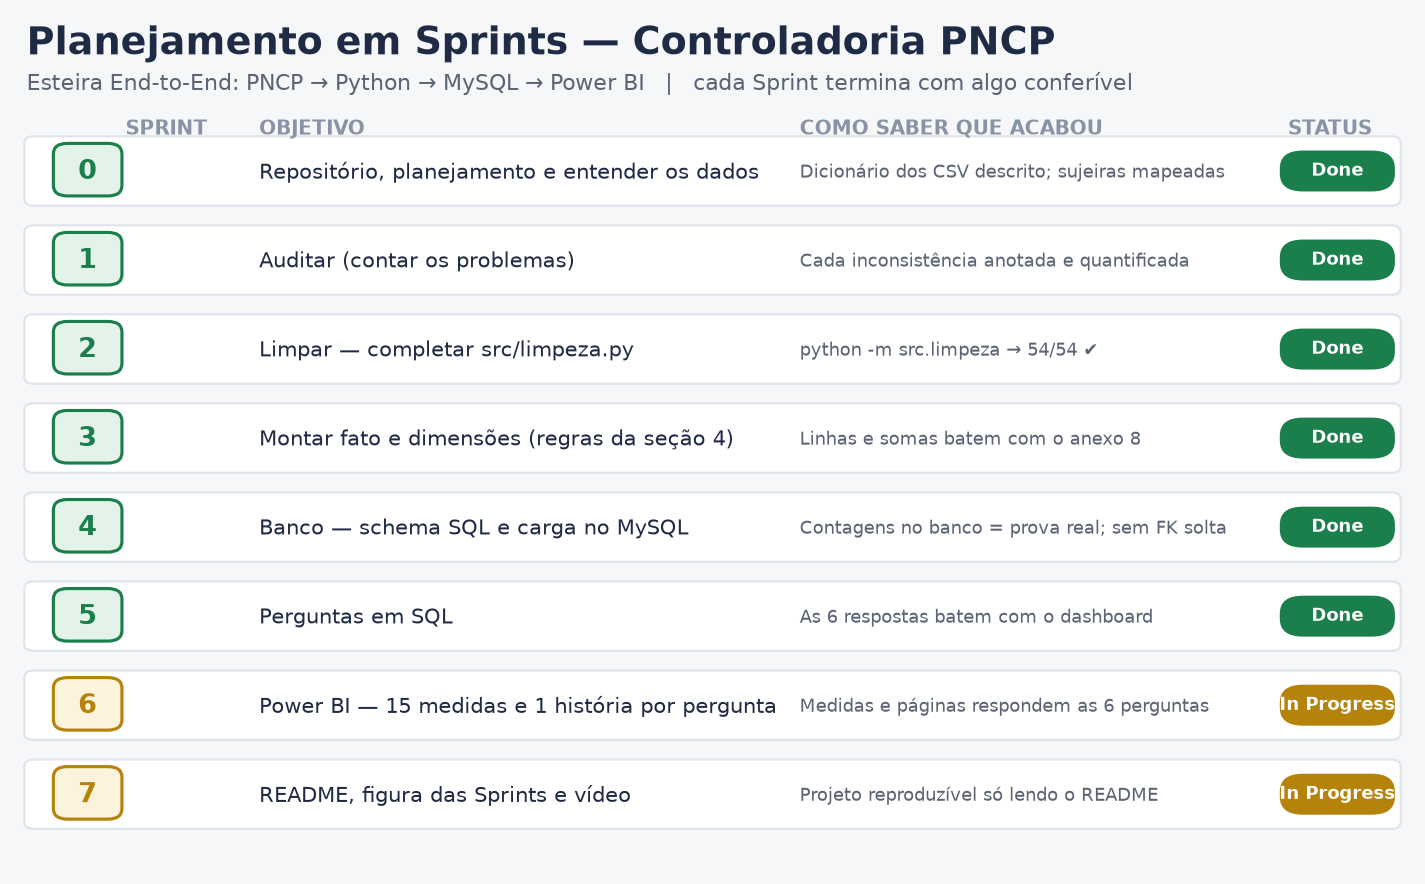
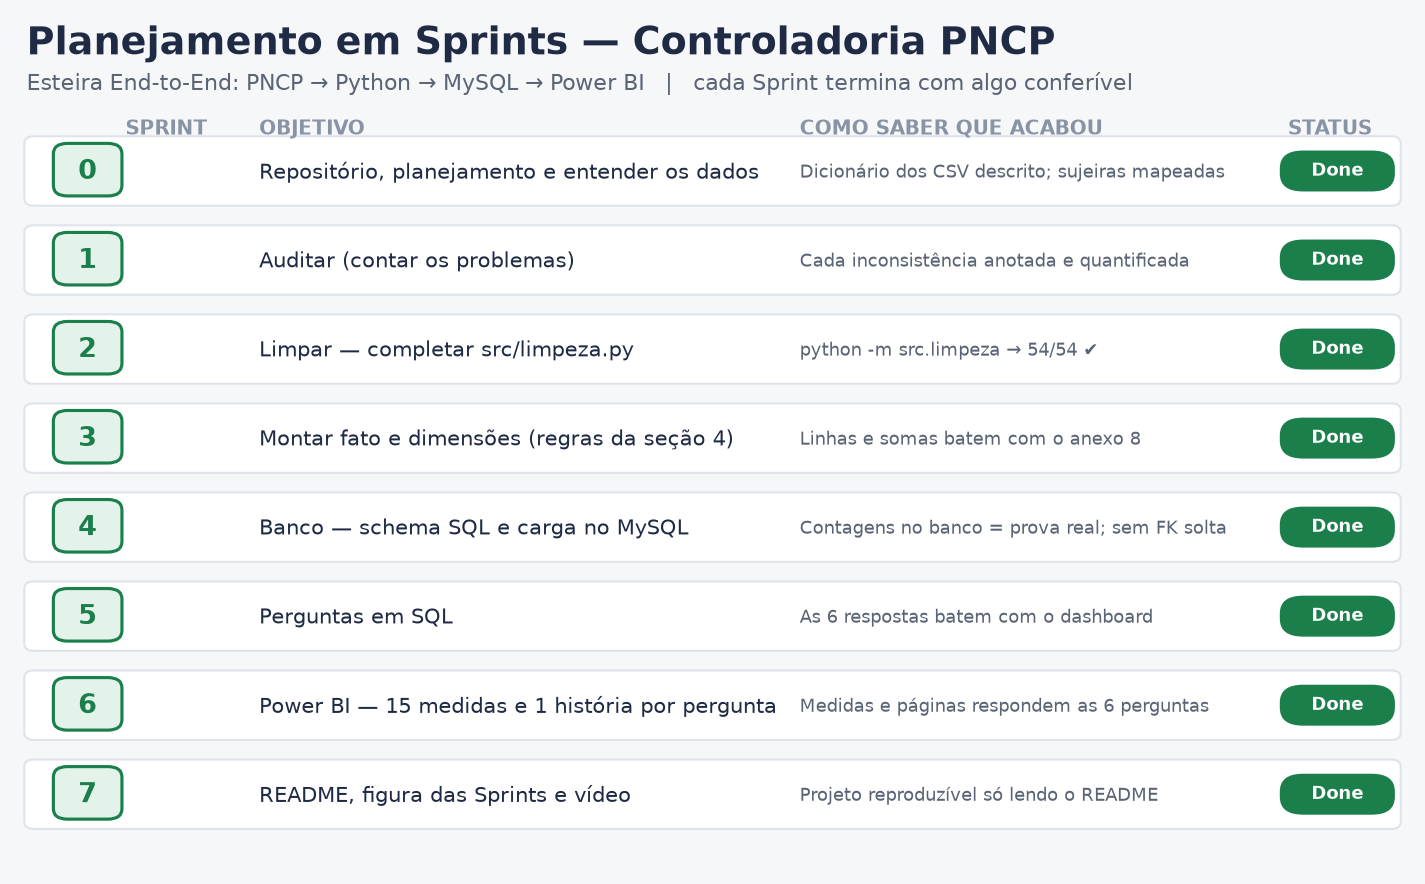
Marca todas as sprints como Done

diff --git a/docs/gerar_sprints.py b/docs/gerar_sprints.py
@@ -30,9 +30,9 @@ SPRINTS = [
     ("5", "Perguntas em SQL",
      "As 6 respostas batem com o dashboard", "Done"),
     ("6", "Power BI — 15 medidas e 1 história por pergunta",
-     "Medidas e páginas respondem as 6 perguntas", "In Progress"),
+     "Medidas e páginas respondem as 6 perguntas", "Done"),
     ("7", "README, figura das Sprints e vídeo",
-     "Projeto reproduzível só lendo o README", "In Progress"),
+     "Projeto reproduzível só lendo o README", "Done"),
 ]
 
 CORES = {

diff --git a/README.md b/README.md
@@ -374,5 +374,6 @@ entrega consultas simples, consistentes e com integridade garantida pelo banco.
 
 ---
 
-> **Status:** backend (Python + MySQL + SQL) completo e validado contra a prova real;
-> defesa técnica registrada por escrito. Pendentes: montagem do `.pbix` e gravação do vídeo.
+> **Status:** projeto concluído. Backend (Python + MySQL + SQL) completo e validado
+> contra a prova real, dashboard do Power BI montado e defesa técnica registrada.
+> Todas as 8 sprints estão concluídas (Done).
